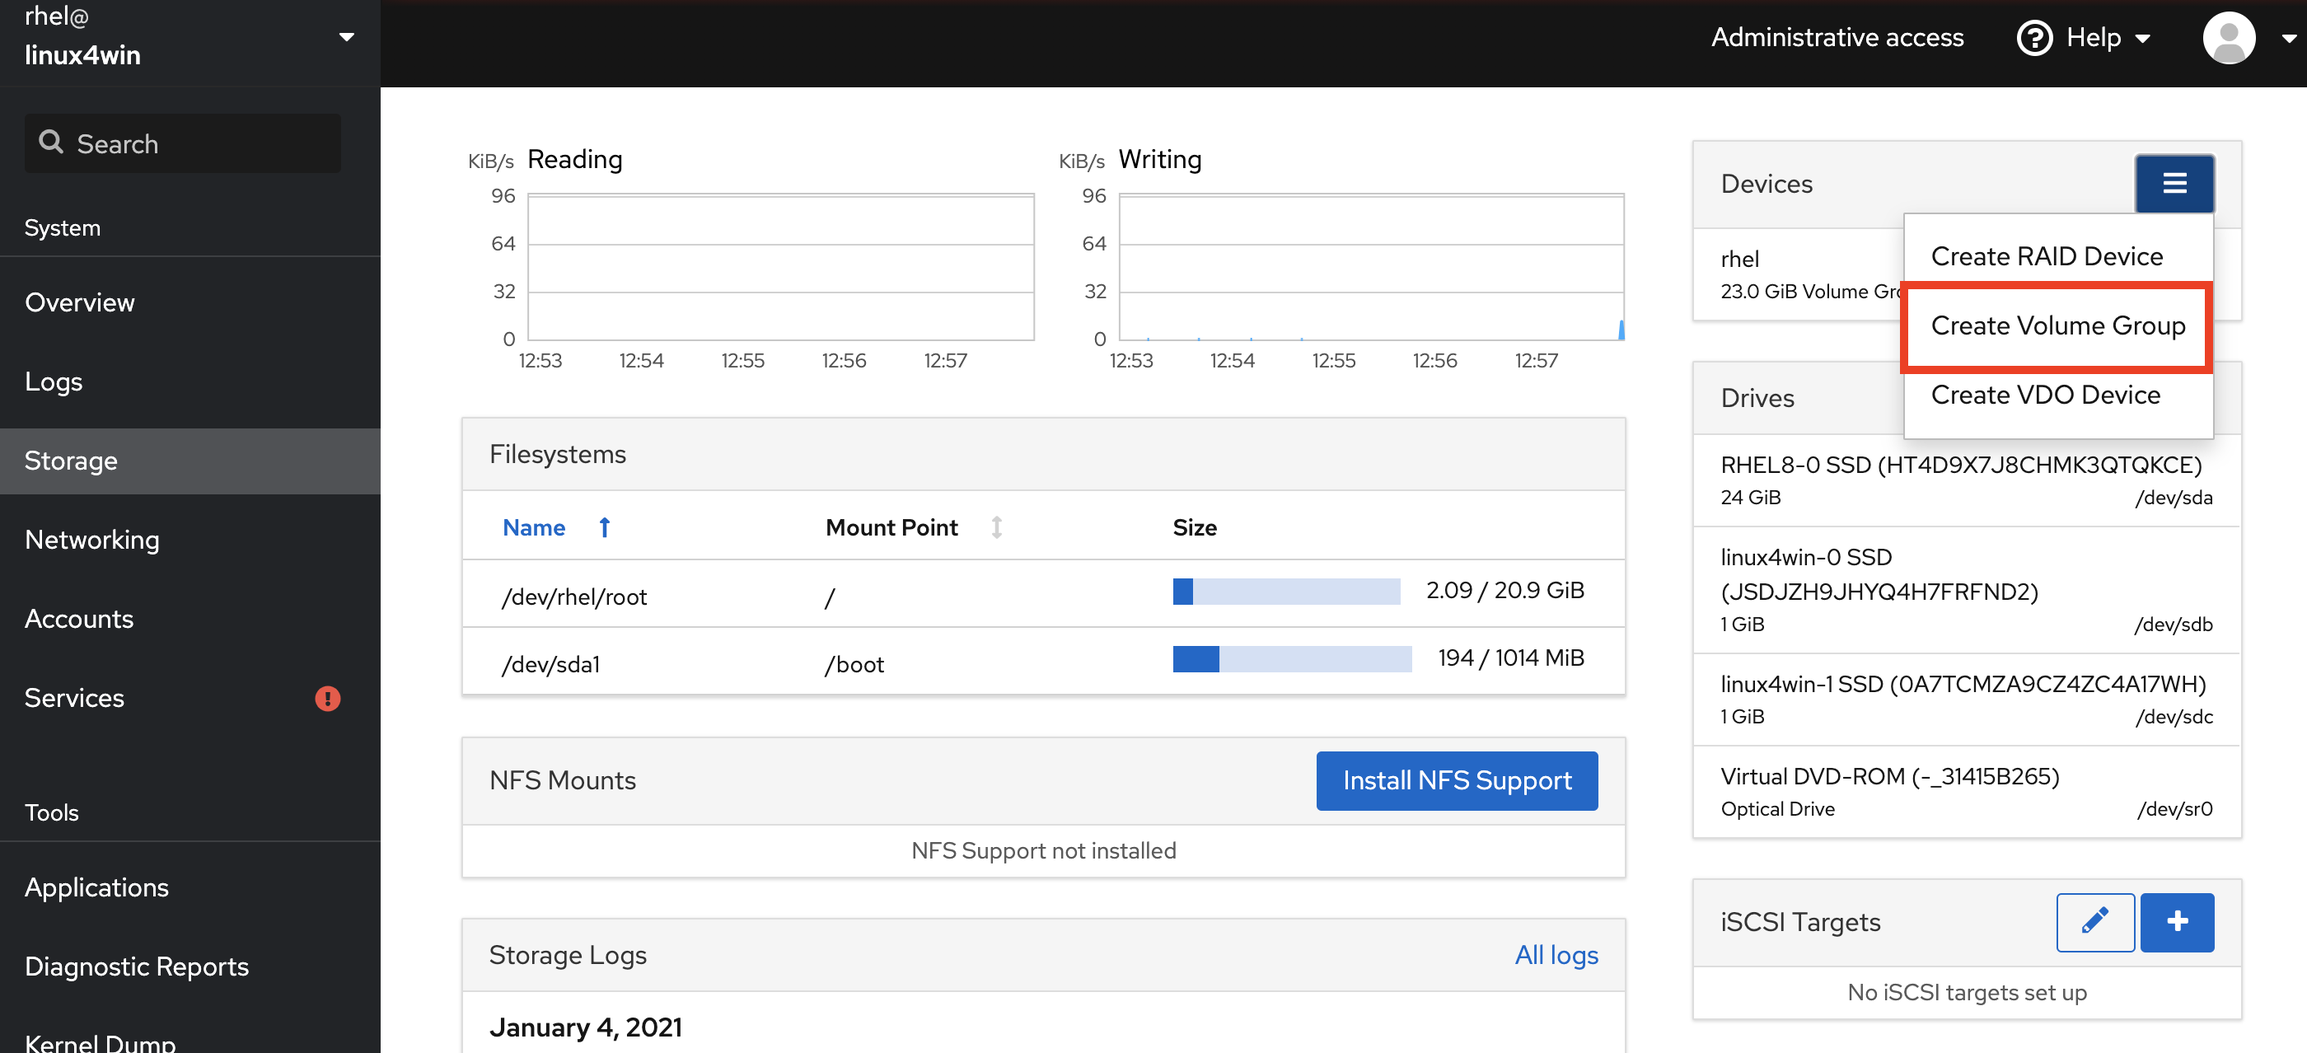
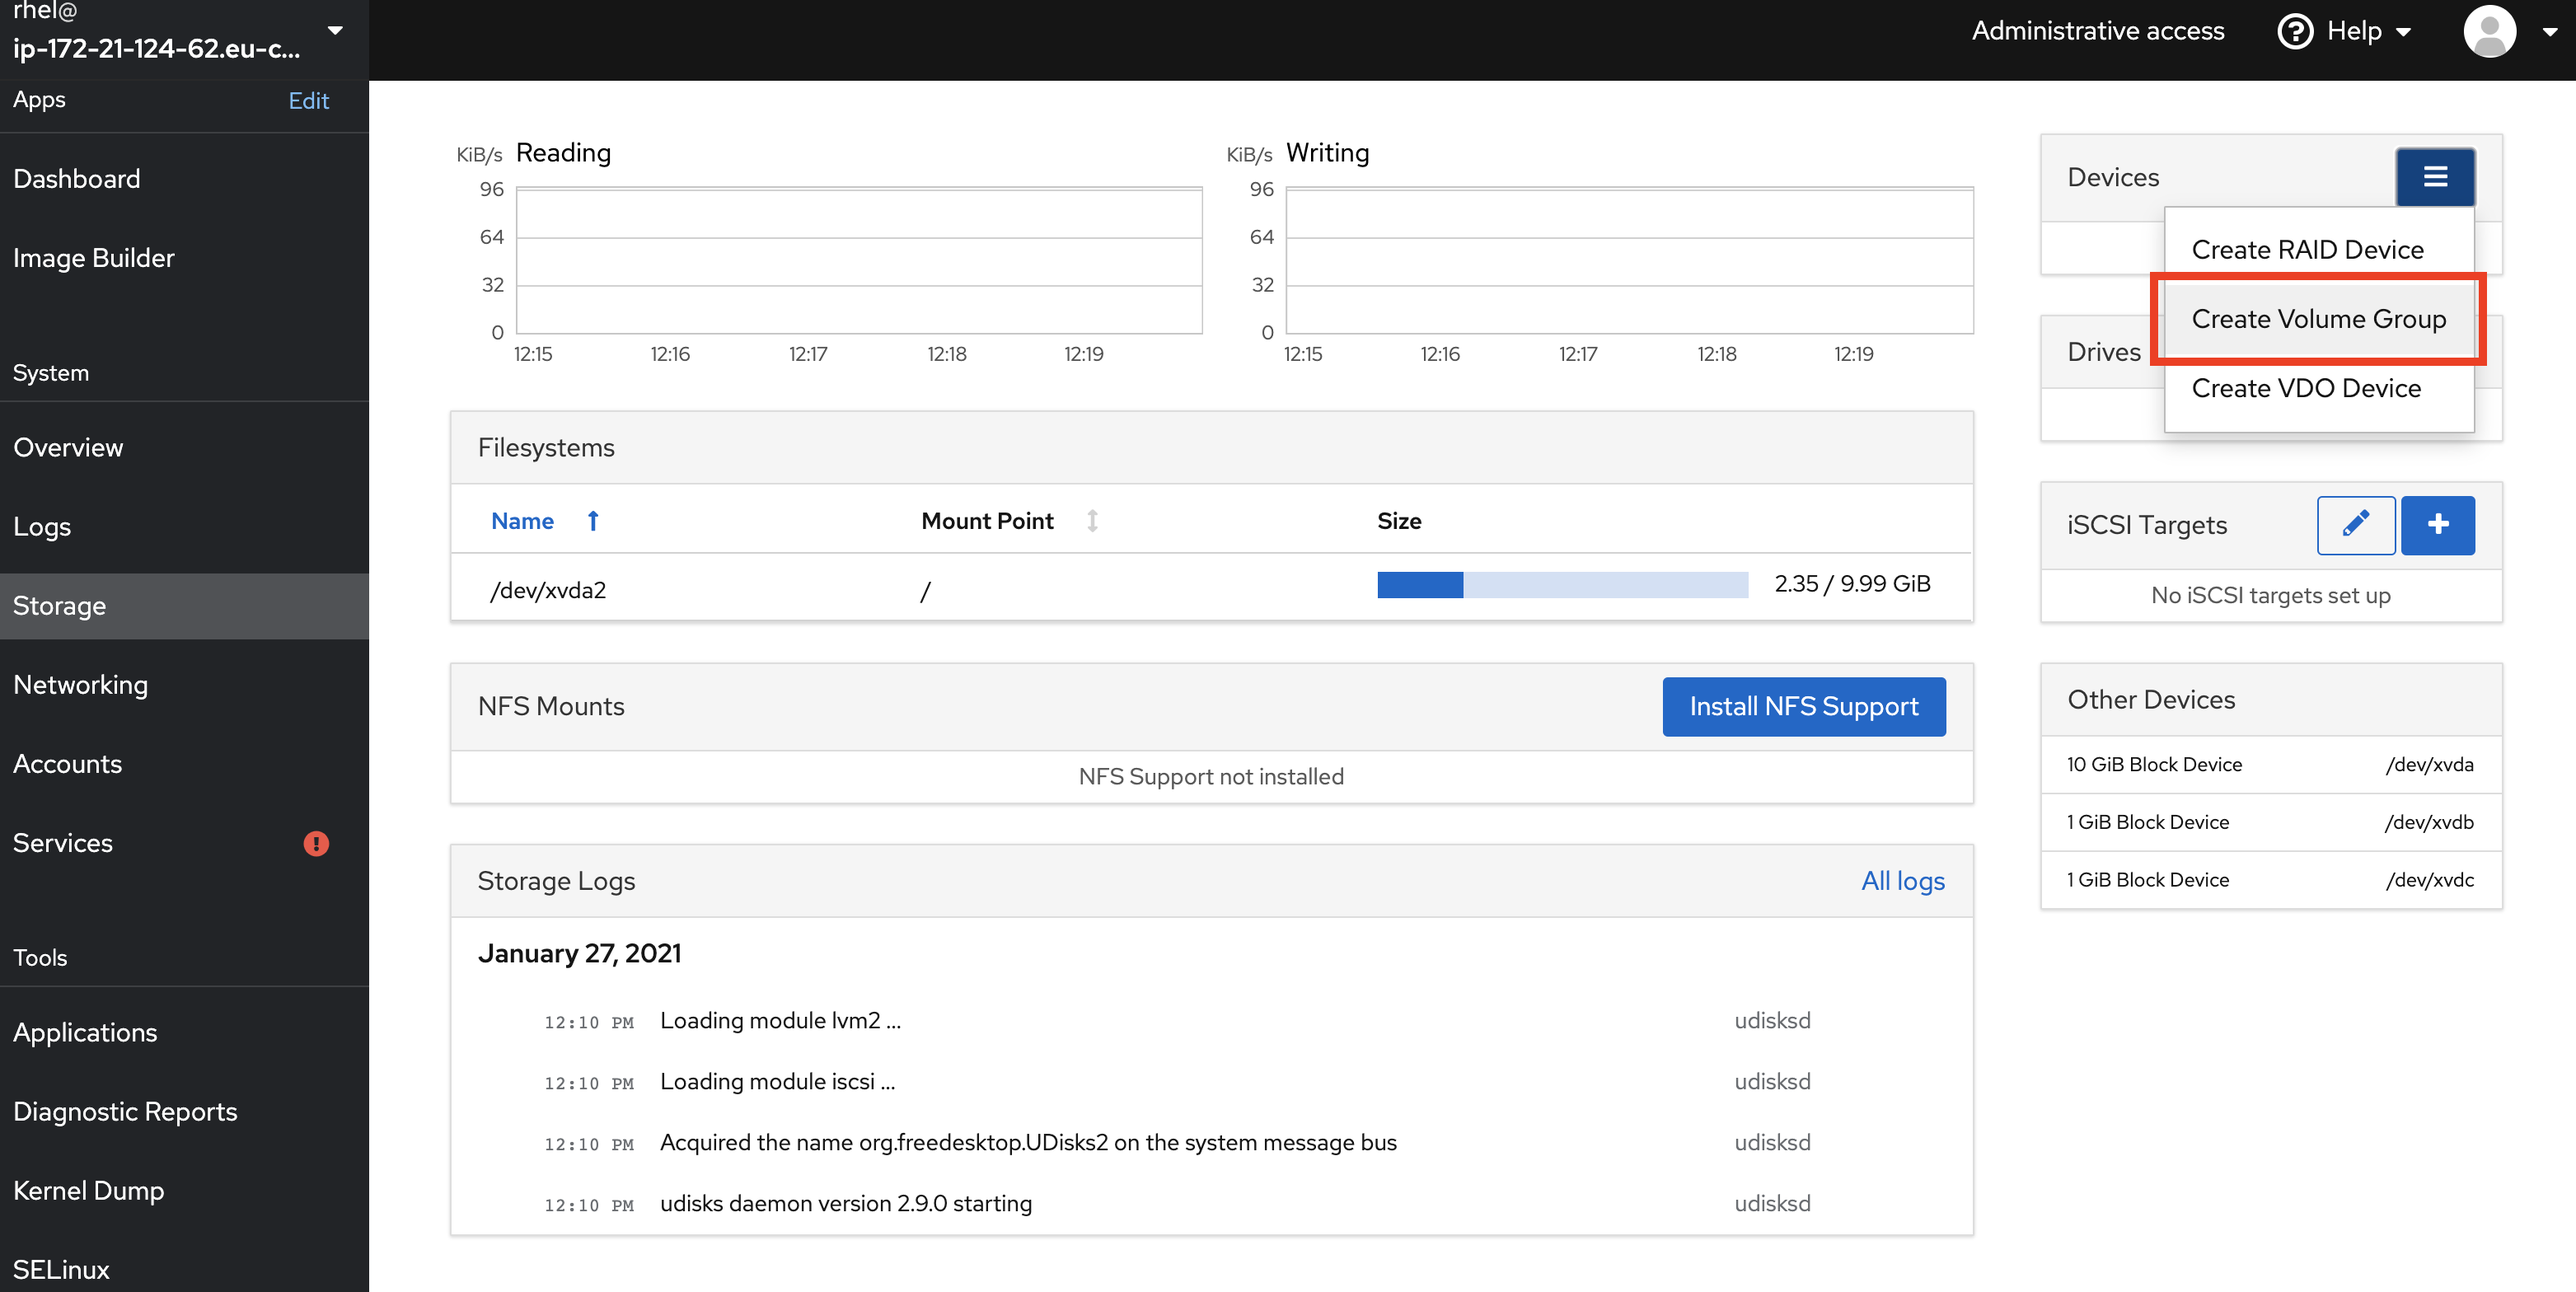
now pictures reflect what it looks like in AWS

diff --git a/content/lab2.md b/content/lab2.md
@@ -14,7 +14,6 @@ In this view you can overview everything of importance regarding storage, includ
 
 If you are familiar with storage in general, you will recognised a lot of the terms on this page, such as ```RAID Devices```, ```Drives``` and ```NFS mounts```. The less familiar things may be:
 
-* VDO Devices (This is a deduplication technology in Linux)
 * ISCSI Targets (This is SCSI over IP)
 * Volume Groups (This is a Logical Volume Manager concept for a group of disk - which you will learn about in the next part of this lab)
 * Storage logs (All logs collected that are related to storage)
@@ -49,7 +48,7 @@ You will now learn how to create a new filesystem in Red Hat Enterprise Linux. W
 
 ![storage user interface](images/storage_overview.png)
 
-In the right hand of this screen you will see the attached storage devices under ```Drives```.
+In the right hand of this screen you will see the attached storage devices under ```Other Devices```.
 
 :boom: Click on the top, called ```xvda```.  Here you will see information regarding the partitions and filesystems present on this device and what types are used.
 
